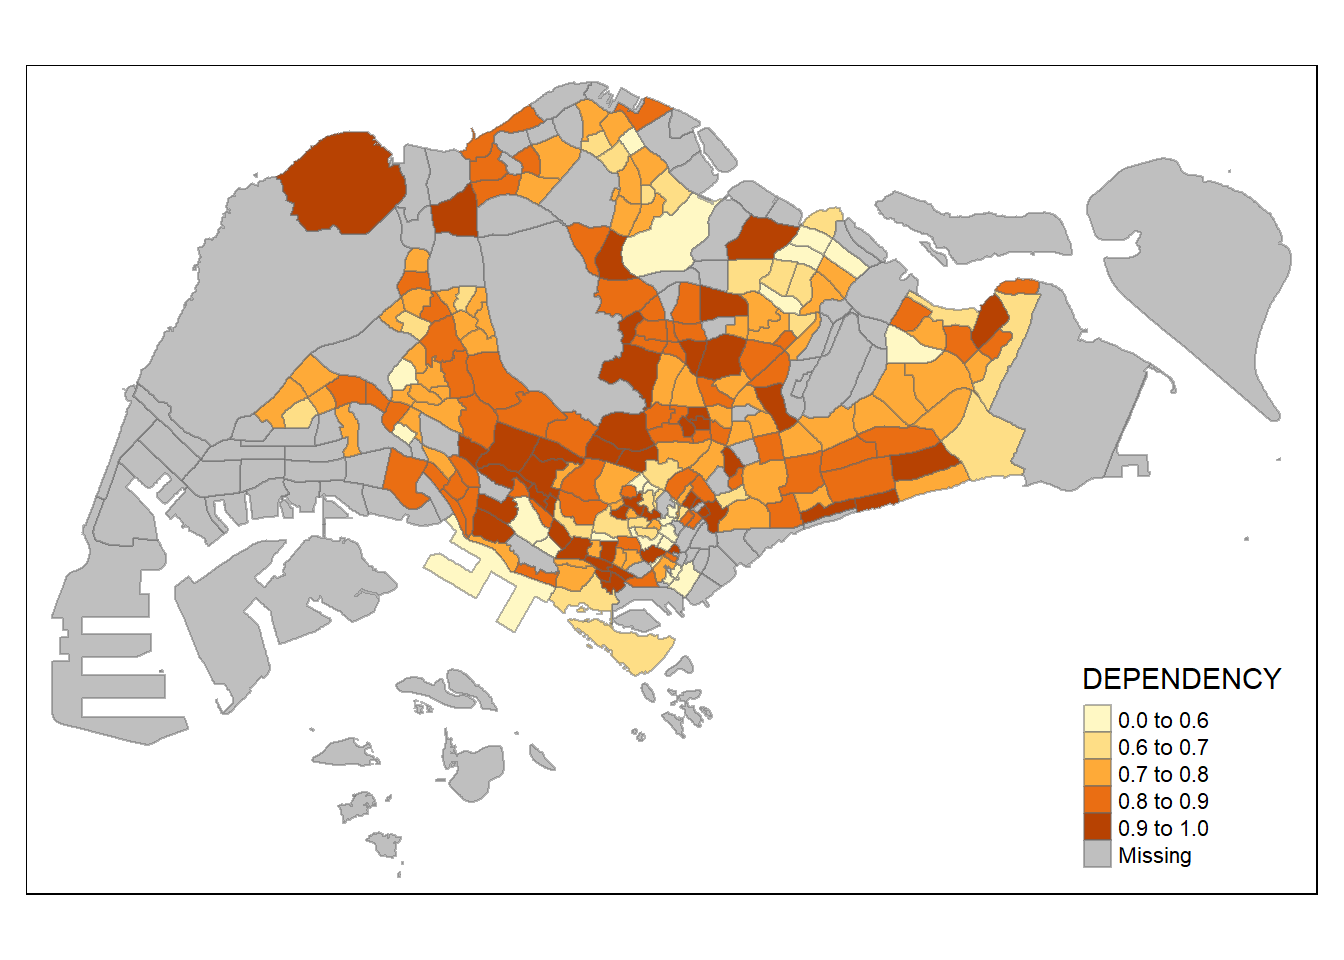
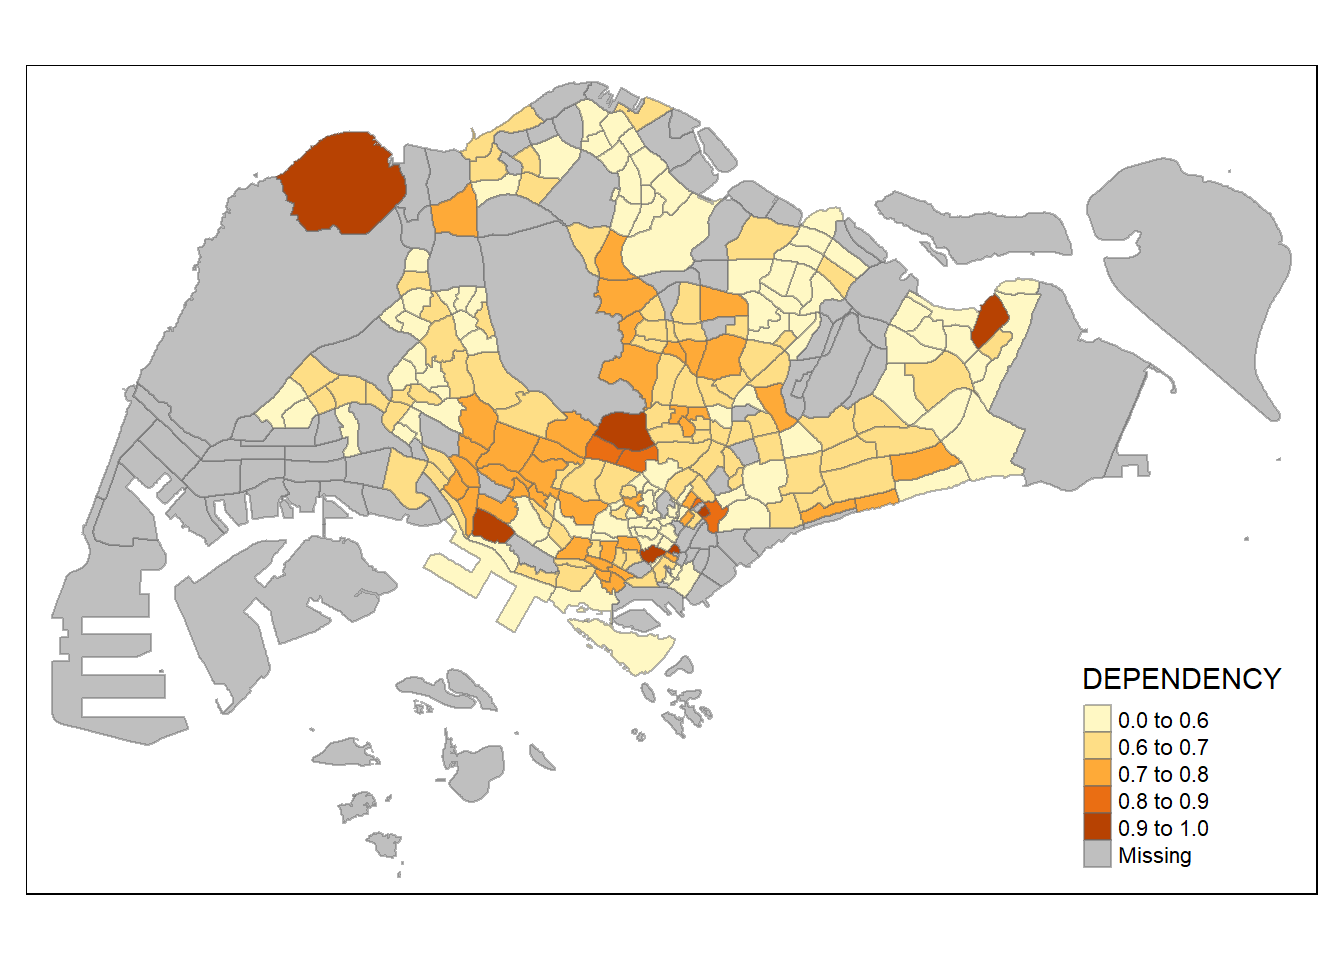
update exercise 2 data wrangling section

Changed region(s): [[0.1875, 0.0938, 0.7812, 0.7188]]

diff --git a/_site/Hands-on_Ex/Hands-on_Ex02/Hands-on_Ex02.html b/_site/Hands-on_Ex/Hands-on_Ex02/Hands-on_Ex02.html
@@ -7,7 +7,7 @@
 <meta name="viewport" content="width=device-width, initial-scale=1.0, user-scalable=yes">
 
 <meta name="author" content="Xu Haiyang">
-<meta name="dcterms.date" content="2024-08-20">
+<meta name="dcterms.date" content="2024-08-24">
 
 <title>IS415 - Xu Haiyang - Hands on Exercise 2</title>
 <style>
@@ -205,14 +205,14 @@ pre > code.sourceCode > span > a:first-child::before { text-decoration: underlin
     <div>
     <div class="quarto-title-meta-heading">Published</div>
     <div class="quarto-title-meta-contents">
-      <p class="date">August 20, 2024</p>
+      <p class="date">August 24, 2024</p>
     </div>
   </div>
   
     <div>
     <div class="quarto-title-meta-heading">Modified</div>
     <div class="quarto-title-meta-contents">
-      <p class="date-modified">August 20, 2024</p>
+      <p class="date-modified">August 24, 2024</p>
     </div>
   </div>
     
@@ -235,11 +235,6 @@ pre > code.sourceCode > span > a:first-child::before { text-decoration: underlin
 <div class="cell">
 <div class="sourceCode cell-code" id="cb1"><pre class="sourceCode r code-with-copy"><code class="sourceCode r"><span id="cb1-1"><a href="#cb1-1" aria-hidden="true" tabindex="-1"></a>pacman<span class="sc">::</span><span class="fu">p_load</span>(sf, tmap, tidyverse)</span></code><button title="Copy to Clipboard" class="code-copy-button"><i class="bi"></i></button></pre></div>
 </div>
-<ul>
-<li><p><strong><code>sf</code></strong>: Used for handling spatial data.</p></li>
-<li><p><strong><code>tmap</code></strong>: A powerful package for thematic mapping.</p></li>
-<li><p><strong><code>tidyverse</code></strong>: A collection of R packages for data manipulation and visualization.</p></li>
-</ul>
 </section>
 <section id="importing-data-into-r" class="level3">
 <h3 class="anchored" data-anchor-id="importing-data-into-r">3. Importing Data into R</h3>
@@ -336,6 +331,14 @@ dbl (2): Pop, Time
 </div>
 </div>
 <p>Here, I imported the population data stored in a CSV file. This dataset contains demographic information about Singapore residents by planning area, subzone, age group, and sex from 2011 to 2020.</p>
+<p>Next, I am required to prepare a data table with year 2020 values. The data table should include the variables PA, SZ, YOUNG, ECONOMY ACTIVE, AGED, TOTAL, DEPENDENCY.</p>
+<ul>
+<li><p>YOUNG: age group 0 to 4 until age group 20 to 24,</p></li>
+<li><p>ECONOMY ACTIVE: age group 25-29 until age group 60-64,</p></li>
+<li><p>AGED: age group 65 and above,</p></li>
+<li><p>TOTAL: all age group, and</p></li>
+<li><p>DEPENDENCY: the ratio between young and aged against economy active group</p></li>
+</ul>
 <div class="cell">
 <div class="sourceCode cell-code" id="cb8"><pre class="sourceCode r code-with-copy"><code class="sourceCode r"><span id="cb8-1"><a href="#cb8-1" aria-hidden="true" tabindex="-1"></a>popdata2020 <span class="ot">&lt;-</span> popdata <span class="sc">%&gt;%</span></span>
 <span id="cb8-2"><a href="#cb8-2" aria-hidden="true" tabindex="-1"></a>  <span class="fu">filter</span>(Time <span class="sc">==</span> <span class="dv">2020</span>) <span class="sc">%&gt;%</span>  </span>
@@ -343,8 +346,8 @@ dbl (2): Pop, Time
 <span id="cb8-4"><a href="#cb8-4" aria-hidden="true" tabindex="-1"></a>  <span class="fu">summarise</span>(<span class="at">POP =</span> <span class="fu">sum</span>(Pop)) <span class="sc">%&gt;%</span>  </span>
 <span id="cb8-5"><a href="#cb8-5" aria-hidden="true" tabindex="-1"></a>  <span class="fu">ungroup</span>() <span class="sc">%&gt;%</span>  </span>
 <span id="cb8-6"><a href="#cb8-6" aria-hidden="true" tabindex="-1"></a>  <span class="fu">pivot_wider</span>(<span class="at">names_from =</span> AG, <span class="at">values_from =</span> POP) <span class="sc">%&gt;%</span> </span>
-<span id="cb8-7"><a href="#cb8-7" aria-hidden="true" tabindex="-1"></a>  <span class="fu">mutate</span>(<span class="at">YOUNG =</span> <span class="fu">rowSums</span>(.[<span class="dv">3</span><span class="sc">:</span><span class="dv">6</span>]) <span class="sc">+</span> <span class="fu">rowSums</span>(.[<span class="dv">12</span>])) <span class="sc">%&gt;%</span>  </span>
-<span id="cb8-8"><a href="#cb8-8" aria-hidden="true" tabindex="-1"></a>  <span class="fu">mutate</span>(<span class="st">`</span><span class="at">ECONOMY ACTIVE</span><span class="st">`</span> <span class="ot">=</span> <span class="fu">rowSums</span>(.[<span class="dv">7</span><span class="sc">:</span><span class="dv">11</span>]) <span class="sc">+</span> <span class="fu">rowSums</span>(.[<span class="dv">13</span><span class="sc">:</span><span class="dv">15</span>])) <span class="sc">%&gt;%</span>  </span>
+<span id="cb8-7"><a href="#cb8-7" aria-hidden="true" tabindex="-1"></a>  <span class="fu">mutate</span>(<span class="at">YOUNG =</span> <span class="fu">rowSums</span>(.[<span class="dv">3</span><span class="sc">:</span><span class="dv">6</span>])) <span class="sc">%&gt;%</span>  </span>
+<span id="cb8-8"><a href="#cb8-8" aria-hidden="true" tabindex="-1"></a>  <span class="fu">mutate</span>(<span class="st">`</span><span class="at">ECONOMY ACTIVE</span><span class="st">`</span> <span class="ot">=</span> <span class="fu">rowSums</span>(.[<span class="dv">7</span><span class="sc">:</span><span class="dv">13</span>]) <span class="sc">+</span> <span class="fu">rowSums</span>(.[<span class="dv">15</span>])) <span class="sc">%&gt;%</span>  </span>
 <span id="cb8-9"><a href="#cb8-9" aria-hidden="true" tabindex="-1"></a>  <span class="fu">mutate</span>(<span class="at">AGED =</span> <span class="fu">rowSums</span>(.[<span class="dv">16</span><span class="sc">:</span><span class="dv">21</span>])) <span class="sc">%&gt;%</span> </span>
 <span id="cb8-10"><a href="#cb8-10" aria-hidden="true" tabindex="-1"></a>  <span class="fu">mutate</span>(<span class="at">TOTAL =</span> <span class="fu">rowSums</span>(.[<span class="dv">3</span><span class="sc">:</span><span class="dv">21</span>])) <span class="sc">%&gt;%</span>  </span>
 <span id="cb8-11"><a href="#cb8-11" aria-hidden="true" tabindex="-1"></a>  <span class="fu">mutate</span>(<span class="at">DEPENDENCY =</span> (YOUNG <span class="sc">+</span> AGED) <span class="sc">/</span> <span class="st">`</span><span class="at">ECONOMY ACTIVE</span><span class="st">`</span>) <span class="sc">%&gt;%</span> </span>
@@ -358,13 +361,8 @@ dbl (2): Pop, Time
 <li><p><strong>filter(Time == 2020)</strong>: Selects the data for the year 2020.</p></li>
 <li><p><strong>group_by(PA, SZ, AG)</strong>: Groups the data by Planning Area (PA), Subzone (SZ), and Age Group (AG).</p></li>
 <li><p><strong>summarise(POP = sum(Pop))</strong>: Summarizes the population counts by summing them within each group.</p></li>
-<li><p><strong>ungroup()</strong>: Removes the grouping, returning the data to its ungrouped state.</p></li>
+<li><p><strong>ungroup()</strong>: ungroup() is to ensure that any further mutations called on the code after it would not use the grouping for aggregate statistics</p></li>
 <li><p><strong>pivot_wider(names_from = AG, values_from = POP)</strong>: Reshapes the data so that each Age Group (AG) becomes a column.</p></li>
-<li><p><strong>mutate(YOUNG = rowSums(.[3:6]) + rowSums(.[12]))</strong>: Calculates the young population (0-14 years and infants) and creates a new column <code>YOUNG</code>.</p></li>
-<li><p><strong>mutate(<code>ECONOMY ACTIVE</code> = rowSums(.[7:11]) + rowSums(.[13:15]))</strong>: Calculates the economically active population (15-64 years) and creates a new column <code>ECONOMY ACTIVE</code>.</p></li>
-<li><p><strong>mutate(AGED = rowSums(.[16:21]))</strong>: Calculates the aged population (65+ years) and creates a new column <code>AGED</code>.</p></li>
-<li><p><strong>mutate(TOTAL = rowSums(.[3:21]))</strong>: Calculates the total population and creates a new column <code>TOTAL</code>.</p></li>
-<li><p><strong>mutate(DEPENDENCY = (YOUNG + AGED) / <code>ECONOMY ACTIVE</code>)</strong>: Calculates the dependency ratio (ratio of the young and aged population to the economically active population) and creates a new column <code>DEPENDENCY</code>.</p></li>
 <li><p><strong>select(PA, SZ, YOUNG, <code>ECONOMY ACTIVE</code>, AGED, TOTAL, DEPENDENCY)</strong>: Selects the relevant columns for the final dataset.</p></li>
 </ul>
 <p>In this step, I filtered the population data to only include the year 2020. I then grouped the data by planning area, subzone, and age group to summarize the population for each group. The data was reshaped so that each age group became a separate column. New columns were created to represent the young, economically active, and aged populations, as well as the total population and dependency ratio.</p>
@@ -522,7 +520,7 @@ dbl (2): Pop, Time
 <div class="sourceCode cell-code" id="cb23"><pre class="sourceCode r code-with-copy"><code class="sourceCode r"><span id="cb23-1"><a href="#cb23-1" aria-hidden="true" tabindex="-1"></a><span class="fu">summary</span>(mpsz_pop2020<span class="sc">$</span>DEPENDENCY)</span></code><button title="Copy to Clipboard" class="code-copy-button"><i class="bi"></i></button></pre></div>
 <div class="cell-output cell-output-stdout">
 <pre><code>   Min. 1st Qu.  Median    Mean 3rd Qu.    Max.    NA's 
- 0.0000  0.7113  0.7926  0.8561  0.8786 19.0000      92 </code></pre>
+ 0.0000  0.5696  0.6154  0.6917  0.6950 19.0000      92 </code></pre>
 </div>
 </div>
 <p>I used the <code>summary()</code> function to generate summary statistics for the <code>DEPENDENCY</code> variable. This helps in understanding the distribution of the data before deciding on classification methods.</p>
@@ -577,7 +575,7 @@ dbl (2): Pop, Time
 <h4 class="anchored" data-anchor-id="map-layouts">4.5 Map Layouts</h4>
 <p>Next, I explored different map layouts to enhance the presentation of the dependency ratio data:</p>
 <div class="cell">
-<div class="sourceCode cell-code" id="cb29"><pre class="sourceCode r code-with-copy"><code class="sourceCode r"><span id="cb29-1"><a href="#cb29-1" aria-hidden="true" tabindex="-1"></a><span class="fu">tm_shape</span>(mpsz_pop2020)<span class="sc">+</span></span>
+<div class="sourceCode cell-code" id="cb29"><pre class="sourceCode r code-with-copy"><code class="sourceCode r"><span id="cb29-1"><a href="#cb29-1" aria-hidden="true" tabindex="-1"></a><span class="fu">tm_shape</span>(mpsz_pop2020) <span class="sc">+</span></span>
 <span id="cb29-2"><a href="#cb29-2" aria-hidden="true" tabindex="-1"></a>  <span class="fu">tm_fill</span>(<span class="st">"DEPENDENCY"</span>, <span class="at">style =</span> <span class="st">"jenks"</span>, <span class="at">palette =</span> <span class="st">"Blues"</span>, <span class="at">legend.hist =</span> <span class="cn">TRUE</span>, <span class="at">legend.is.portrait =</span> <span class="cn">TRUE</span>, <span class="at">legend.hist.z =</span> <span class="fl">0.1</span>) <span class="sc">+</span></span>
 <span id="cb29-3"><a href="#cb29-3" aria-hidden="true" tabindex="-1"></a>  <span class="fu">tm_layout</span>(<span class="at">main.title =</span> <span class="st">"Distribution of Dependency Ratio by planning subzone </span><span class="sc">\n</span><span class="st">(Jenks classification)"</span>, <span class="at">main.title.position =</span> <span class="st">"center"</span>, <span class="at">main.title.size =</span> <span class="dv">1</span>, <span class="at">legend.height =</span> <span class="fl">0.45</span>, <span class="at">legend.width =</span> <span class="fl">0.35</span>, <span class="at">legend.outside =</span> <span class="cn">FALSE</span>, <span class="at">legend.position =</span> <span class="fu">c</span>(<span class="st">"right"</span>, <span class="st">"bottom"</span>), <span class="at">frame =</span> <span class="cn">FALSE</span>) <span class="sc">+</span></span>
 <span id="cb29-4"><a href="#cb29-4" aria-hidden="true" tabindex="-1"></a>  <span class="fu">tm_borders</span>(<span class="at">alpha =</span> <span class="fl">0.5</span>)</span></code><button title="Copy to Clipboard" class="code-copy-button"><i class="bi"></i></button></pre></div>
@@ -593,7 +591,7 @@ dbl (2): Pop, Time
 <li><strong>Jenks Classification</strong>: This layout uses Jenks natural breaks classification and includes a histogram in the legend. The layout was customized with a centered title and a compact legend.</li>
 </ul>
 <div class="cell">
-<div class="sourceCode cell-code" id="cb30"><pre class="sourceCode r code-with-copy"><code class="sourceCode r"><span id="cb30-1"><a href="#cb30-1" aria-hidden="true" tabindex="-1"></a><span class="fu">tm_shape</span>(mpsz_pop2020)<span class="sc">+</span></span>
+<div class="sourceCode cell-code" id="cb30"><pre class="sourceCode r code-with-copy"><code class="sourceCode r"><span id="cb30-1"><a href="#cb30-1" aria-hidden="true" tabindex="-1"></a><span class="fu">tm_shape</span>(mpsz_pop2020) <span class="sc">+</span></span>
 <span id="cb30-2"><a href="#cb30-2" aria-hidden="true" tabindex="-1"></a>  <span class="fu">tm_fill</span>(<span class="st">"DEPENDENCY"</span>, <span class="at">style =</span> <span class="st">"quantile"</span>, <span class="at">palette =</span> <span class="st">"-Greens"</span>) <span class="sc">+</span> <span class="fu">tm_borders</span>(<span class="at">alpha =</span> <span class="fl">0.5</span>) <span class="sc">+</span> <span class="fu">tmap_style</span>(<span class="st">"classic"</span>)</span></code><button title="Copy to Clipboard" class="code-copy-button"><i class="bi"></i></button></pre></div>
 <div class="cell-output cell-output-stderr">
 <pre><code>tmap style set to "classic"</code></pre>
@@ -610,10 +608,10 @@ dbl (2): Pop, Time
 </div>
 </div>
 <ul>
-<li><strong>Classic Style</strong>: Here, I applied the classic tmap style, which provides a traditional map appearance.</li>
+<li><strong>Classic Style</strong>: Here, the classic tmap style, which provides a traditional map appearance.</li>
 </ul>
 <div class="cell">
-<div class="sourceCode cell-code" id="cb33"><pre class="sourceCode r code-with-copy"><code class="sourceCode r"><span id="cb33-1"><a href="#cb33-1" aria-hidden="true" tabindex="-1"></a><span class="fu">tm_shape</span>(mpsz_pop2020)<span class="sc">+</span></span>
+<div class="sourceCode cell-code" id="cb33"><pre class="sourceCode r code-with-copy"><code class="sourceCode r"><span id="cb33-1"><a href="#cb33-1" aria-hidden="true" tabindex="-1"></a><span class="fu">tm_shape</span>(mpsz_pop2020) <span class="sc">+</span></span>
 <span id="cb33-2"><a href="#cb33-2" aria-hidden="true" tabindex="-1"></a>  <span class="fu">tm_fill</span>(<span class="st">"DEPENDENCY"</span>, <span class="at">style =</span> <span class="st">"quantile"</span>, <span class="at">palette =</span> <span class="st">"Blues"</span>, <span class="at">title =</span> <span class="st">"No. of persons"</span>) <span class="sc">+</span> <span class="fu">tm_layout</span>(<span class="at">main.title =</span> <span class="st">"Distribution of Dependency Ratio </span><span class="sc">\n</span><span class="st">by planning subzone"</span>, <span class="at">main.title.position =</span> <span class="st">"center"</span>, <span class="at">main.title.size =</span> <span class="fl">1.2</span>, <span class="at">legend.height =</span> <span class="fl">0.45</span>, <span class="at">legend.width =</span> <span class="fl">0.35</span>, <span class="at">frame =</span> <span class="cn">TRUE</span>) <span class="sc">+</span></span>
 <span id="cb33-3"><a href="#cb33-3" aria-hidden="true" tabindex="-1"></a>  <span class="fu">tm_borders</span>(<span class="at">alpha =</span> <span class="fl">0.5</span>) <span class="sc">+</span></span>
 <span id="cb33-4"><a href="#cb33-4" aria-hidden="true" tabindex="-1"></a>  <span class="fu">tm_compass</span>(<span class="at">type=</span><span class="st">"8star"</span>, <span class="at">size =</span> <span class="dv">2</span>) <span class="sc">+</span></span>
@@ -641,7 +639,7 @@ dbl (2): Pop, Time
 </div>
 </div>
 <ul>
-<li><strong>White Style</strong>: Finally, I switched to the white style for a clean, modern look.</li>
+<li><strong>White Style</strong>: Switch to the white style for a clean, modern look.</li>
 </ul>
 </section>
 <section id="drawing-small-multiple-choropleth-maps" class="level4">
